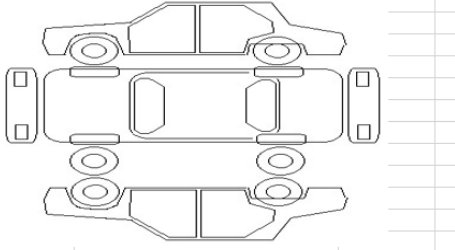
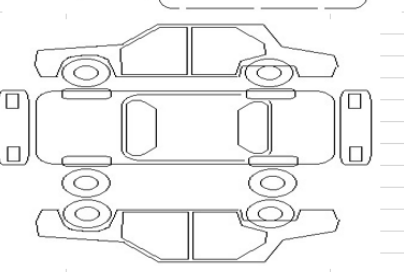
fix(warehouse): привязка фото по их родной сессии, передача остатков очереди созданному ТС, перенарезка схем
Замечания перетеста 09.09 (вечер):
- «Не удалось привязать все фотографии»: сервер ищет pending-фото по паре
  «uploadSessionId + clientHash», а страница слала свою ТЕКУЩУЮ сессию —
  после перезагрузки или «Принять ещё одно ТС» старые фото очереди с их
  родной сессией не находились. Теперь привязка группируется по фактической
  сессии каждого фото
- «начал новый акт — фото остались старые»: при уходе с экрана «ТС принято»
  с непривязанными фото остатки очереди переназначаются созданной карточке
  (reassign) — не всплывают в следующем акте, догружаются со страницы
  «Техника на стоянке»
- схемы повреждений перенарезаны из исходной договорной схемы: у прицепа
  был обрезан правый край и низ, у грузовой — левый край, у легковой лишние
  линии таблицы (обрезка сидела в самих PNG, вёрстка не при чём)
- кнопка «Скопировать отчёт» добавлена на экран «ТС принято» рядом с
  «Повторить загрузку фото»; ошибки привязки пишутся в журнал загрузок

diff --git a/frontend/src/pages/WarehouseReceptionPage.tsx b/frontend/src/pages/WarehouseReceptionPage.tsx
@@ -65,6 +65,7 @@ import {
 } from '../constants/warehouse';
 import {
   clearWarehousePhotoQueue,
+  reassignWarehousePhotoQueue,
   enqueueWarehousePhoto,
   listWarehousePhotoQueue,
   recoverWarehousePhotoQueue,
@@ -697,17 +698,48 @@ export default function WarehouseReceptionPage() {
     navigate('/warehouse/operations', { replace: true });
   };
 
+  // Уход с экрана «ТС принято» с непривязанными фото: остатки очереди
+  // передаём созданной карточке, чтобы они НЕ всплыли в следующем акте
+  // (баг 09.09: «начал новый акт — фото остались старые»). Со страницы
+  // «Техника на стоянке» их можно догрузить кнопкой «Догрузить фото».
+  const handOverLeftoverPhotos = async () => {
+    if (!completedVehicle) return;
+    try {
+      const leftovers = await listWarehousePhotoQueue(DRAFT_PHOTO_KEY);
+      if (leftovers.length === 0) return;
+      logUploadEvent('reception:leftover-handover', { vehicleId: completedVehicle.id, count: leftovers.length });
+      await reassignWarehousePhotoQueue(DRAFT_PHOTO_KEY, completedVehicle.id);
+    } catch {
+      // не смогли переназначить — очередь останется в черновике, это не блокер
+    }
+  };
+
   const uploadQueuedPhotos = async (vehicleId: string, total: number) => {
     const draftQueue = await listWarehousePhotoQueue(DRAFT_PHOTO_KEY);
-    const readyHashes = draftQueue
-      .filter((item) => item.uploadStatus === 'uploaded' && item.clientHash)
-      .map((item) => item.clientHash!);
-    if (readyHashes.length !== draftQueue.length) {
+    const ready = draftQueue.filter((item) => item.uploadStatus === 'uploaded' && item.clientHash);
+    if (ready.length !== draftQueue.length) {
       throw new Error('Не все фотографии догружены на сервер. Дождитесь завершения загрузки и повторите приёмку.');
     }
     setProgress({ done: 0, total, label: 'Привязка фотографий' });
-    const response = await attachWarehousePendingPhotos(vehicleId, uploadSessionId, readyHashes);
-    const attachedCount = (response.data.attached || 0) + (response.data.alreadyAttached || 0);
+    // Привязываем по той сессии, под которой фото РЕАЛЬНО загружалось:
+    // после перезагрузки страницы или «Принять ещё одно ТС» сессия страницы
+    // новая, а старые фото в очереди помнят свою — сервер ищет по паре
+    // «сессия + хеш», и привязка одной общей сессией падала (баг 09.09).
+    const hashesBySession = new Map<string, string[]>();
+    ready.forEach((item) => {
+      const session = item.uploadSessionId || uploadSessionId;
+      const list = hashesBySession.get(session) ?? [];
+      list.push(item.clientHash!);
+      hashesBySession.set(session, list);
+    });
+    let attachedCount = 0;
+    logUploadEvent('reception:attach:start', { vehicleId, total, sessions: hashesBySession.size });
+    for (const [session, hashes] of hashesBySession) {
+      const response = await attachWarehousePendingPhotos(vehicleId, session, hashes);
+      attachedCount += (response.data.attached || 0) + (response.data.alreadyAttached || 0);
+      setProgress({ done: attachedCount, total, label: 'Привязка фотографий' });
+    }
+    logUploadEvent('reception:attach:done', { vehicleId, attachedCount, total });
     setPhotoUploadStatus({
       uploaded: attachedCount,
       total,
@@ -725,7 +757,8 @@ export default function WarehouseReceptionPage() {
     setUploadWarning(null);
     try {
       await uploadQueuedPhotos(completedVehicle.id, photoUploadStatus.total);
-    } catch {
+    } catch (attachError) {
+      logUploadEvent('reception:attach:error', { vehicleId: completedVehicle.id, error: messageFromError(attachError) });
       const draftQueue = await listWarehousePhotoQueue(DRAFT_PHOTO_KEY).catch(() => []);
       const pending = draftQueue.filter((item) => item.uploadStatus !== 'uploaded').length;
       setPhotoUploadStatus((current) => ({
@@ -778,7 +811,8 @@ export default function WarehouseReceptionPage() {
 
       try {
         await uploadQueuedPhotos(vehicle.id, totalPhotos);
-      } catch {
+      } catch (attachError) {
+        logUploadEvent('reception:attach:error', { vehicleId: vehicle.id, error: messageFromError(attachError) });
         const draftQueue = await listWarehousePhotoQueue(DRAFT_PHOTO_KEY).catch(() => []);
         const uploadedCount = draftQueue.filter((item) => item.uploadStatus === 'uploaded').length;
         const pending = Math.max(0, totalPhotos - uploadedCount);
@@ -876,16 +910,19 @@ export default function WarehouseReceptionPage() {
                 </Alert>
               )}
               {(photoUploadStatus.pending > 0 || uploadWarning) && (
-                <Button
-                  fullWidth
-                  variant="contained"
-                  color="warning"
-                  startIcon={saving ? <CircularProgress size={20} color="inherit" /> : <Refresh />}
-                  disabled={saving}
-                  onClick={() => void retryPhotoUpload()}
-                >
-                  {saving ? 'Загрузка фотографий…' : 'Повторить загрузку фото'}
-                </Button>
+                <Stack spacing={1} sx={{ width: '100%' }} alignItems="center">
+                  <Button
+                    fullWidth
+                    variant="contained"
+                    color="warning"
+                    startIcon={saving ? <CircularProgress size={20} color="inherit" /> : <Refresh />}
+                    disabled={saving}
+                    onClick={() => void retryPhotoUpload()}
+                  >
+                    {saving ? 'Загрузка фотографий…' : 'Повторить загрузку фото'}
+                  </Button>
+                  <UploadReportButton />
+                </Stack>
               )}
               <Alert severity="success">
                 Приёмка зафиксирована автоматически: {formatOperationDateTime(completedVehicle.receivedAt)}.
@@ -900,21 +937,30 @@ export default function WarehouseReceptionPage() {
                 <Button
                   variant="outlined"
                   onClick={() => {
-                    setCompletedVehicle(null);
-                    setForm(emptyForm());
-                    setInspection(emptyWarehouseInspection());
-                    setUploadSessionId(createUploadSessionId());
-                    setActiveStep(0);
-                    livePhotoBlobsRef.current.clear();
-                    setPhotos([]);
-                    setPhotoUploadStatus({ uploaded: 0, total: 0, pending: 0 });
-                    setUploadWarning(null);
-                    setInspectionWarning(null);
+                    void handOverLeftoverPhotos().then(() => {
+                      setCompletedVehicle(null);
+                      setForm(emptyForm());
+                      setInspection(emptyWarehouseInspection());
+                      setUploadSessionId(createUploadSessionId());
+                      setActiveStep(0);
+                      livePhotoBlobsRef.current.clear();
+                      setPhotos([]);
+                      setPhotoUploadStatus({ uploaded: 0, total: 0, pending: 0 });
+                      setUploadWarning(null);
+                      setInspectionWarning(null);
+                    });
                   }}
                 >
                   Принять ещё одно ТС
                 </Button>
-                <Button variant="contained" onClick={() => navigate('/warehouse/operations', { replace: true })}>
+                <Button
+                  variant="contained"
+                  onClick={() => {
+                    void handOverLeftoverPhotos().then(() => {
+                      navigate('/warehouse/operations', { replace: true });
+                    });
+                  }}
+                >
                   Вернуться на рабочую станцию
                 </Button>
               </Stack>
